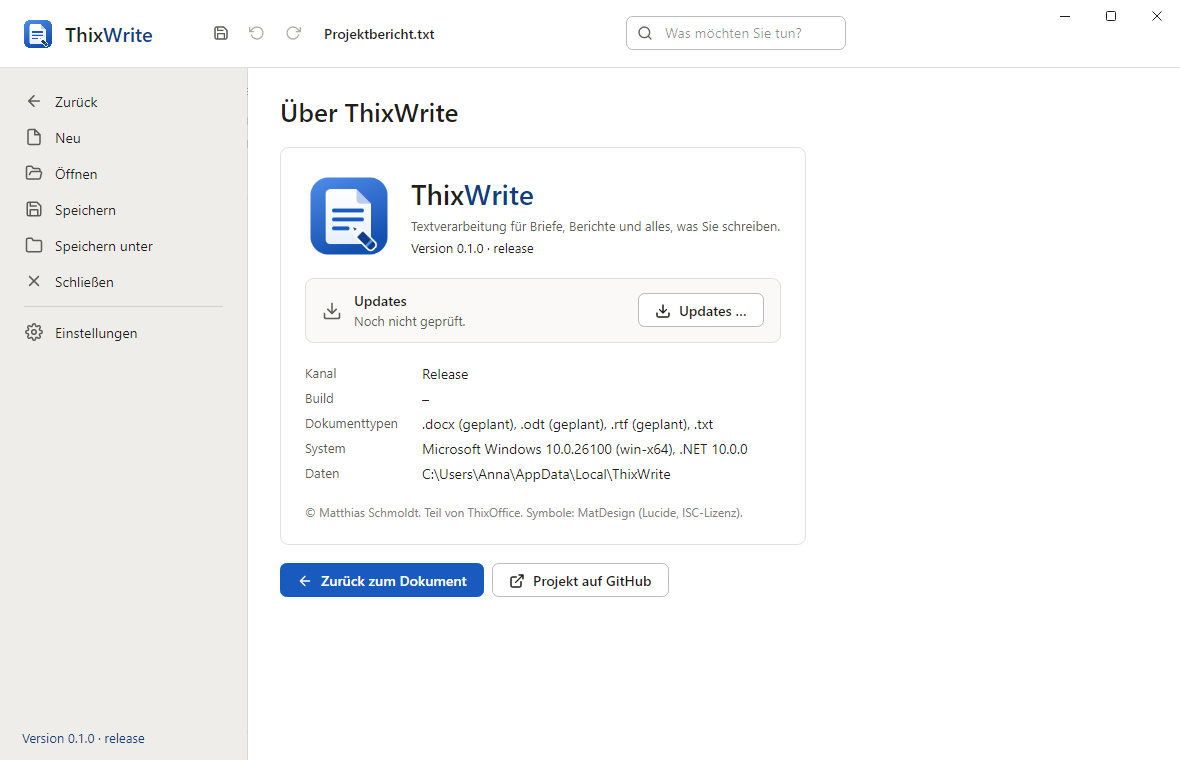
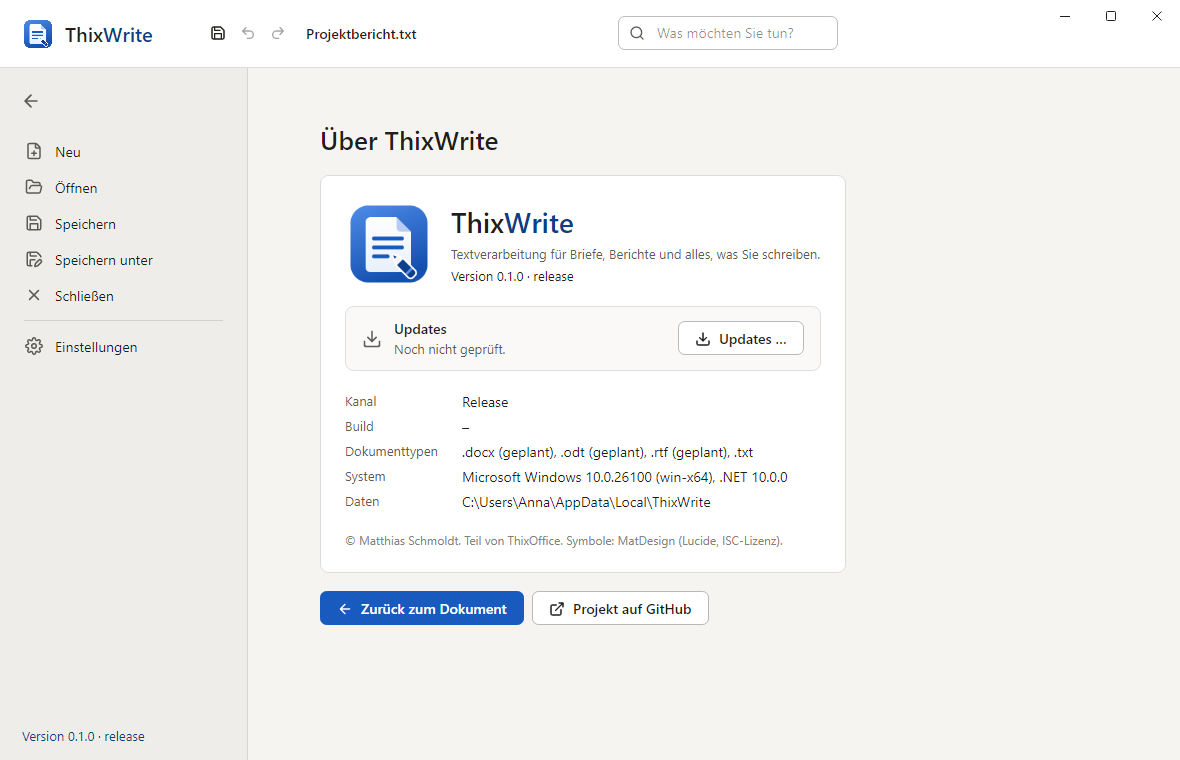
Docs: the ribbon binding, the keys, the last window on macOS; snapshots with the real ribbon

diff --git a/CLAUDE.md b/CLAUDE.md
@@ -14,11 +14,11 @@ like "Was möchten Sie tun?"); code, comments and identifiers English.
 
 **Phase 0 (done): the foundation.** The shared core and desktop, the ThixWrite skeleton with a PLACEHOLDER editor ("Editor folgt",
 a plain text box on `.txt`, so that new / open / save / recent / recovery / unsaved prompt / file activation are real), the
-logos of all three apps, CI. **Next:** MatRibbon, MatBackstage and MatStatusBar come as MatDesktop 0.3.0 from MatDesign (a
-colleague builds them) and drop into the slots below; then phase 1a, ThixWrite's native editor and docx. Do not build a ribbon
-of your own and do not grow the placeholders.
+logos of all three apps, CI, and MatDesktop 0.3.0's MatRibbon, MatBackstage, MatStatusBar and MatQuickAccess in the window.
+**Next:** phase 1a, ThixWrite's native editor and docx (it registers the commands `WriteCommandIds` names; the ribbon shows
+them in their places). Do not build ribbon controls of your own and do not grow the placeholder editor.
 
-Stack: **.NET 10** (`global.json` 10.0.100, latestMinor), C#, **Avalonia 11.3.22** with **MatDesktop 0.2.0** (a copy), xunit +
+Stack: **.NET 10** (`global.json` 10.0.100, latestMinor), C#, **Avalonia 11.3.22** with **MatDesktop 0.3.0** (a copy), xunit +
 Avalonia.Headless. Reference apps (sibling folders): ThixCalendar (structure, setup, OTA), ThixNote (document app: file types,
 update on exit), ThixClip (`--snapshot`), ThixFred (CI that publishes Windows even when macOS fails). Never use, reference or
 copy anything from MatOffice.
@@ -36,9 +36,10 @@ src/ThixOffice.Core        (no UI) shared by every app; every service is paramet
                            AppSettings, RecentDocument(+Item, Order), BusinessException(message, field)
   Documents/               OfficeDocument: the UI-free base of every document model (FilePath, FileType, Title, IsDirty, IsPristine,
                            IsRecovered, Undo/Redo, protected Read/Write(Stream), Changed)
-  Commands/                OfficeCommand (Id, Label, Icon, Shortcut "Ctrl+S", Description, Keywords, CanExecute, IsChecked,
-                           IsSearchable, ExecuteAsync), OfficeCommandRegistry (Add, Find, this[id], ExecuteAsync, Search, Invalidate,
-                           StateChanged), CommonCommandIds, RibbonLayout / RibbonTab / RibbonGroup / RibbonItem (+ RibbonItemSize)
+  Commands/                OfficeCommand (Id, Label, Icon, Shortcut "Ctrl+S", MacShortcut, CurrentShortcut, Description, Keywords,
+                           CanExecute, IsChecked, IsSearchable, ExecuteAsync), OfficeValueCommand : OfficeCommand (Kind Text|Number|
+                           Color|Choice, Value, Options, ApplyAsync(value): font, size, colour, style), OfficeCommandRegistry (Add,
+                           Find, this[id], ExecuteAsync, ApplyAsync, Search, Invalidate, StateChanged), CommonCommandIds
   Business/                SettingsService, RecentDocuments, DocumentFiles (atomic save, .bak, lock detection, recovery files),
                            DocumentService (Open, Save, SaveAs, TargetPath, recovery), AccessPolicy (LockConfiguration, DisableUpdates,
                            DisableCloud, DisableFileAssociations), InstallService (Windows self-installing exe), UninstallEntry (what
@@ -51,29 +52,32 @@ src/ThixOffice.Core        (no UI) shared by every app; every service is paramet
   Platform/Windows/        ShellLink (.lnk through generated COM)
   MatCloud/                COPY of the MatCloud contract (never edited here); cloud sign-in comes in a later phase
 src/ThixOffice.Desktop     shared Avalonia UI
-  MatDesktop/              COPY of MatDesign's desktop toolkit 0.2.0 (never edited here)
-  OfficeApplication        base Application of every app: Definition, CreateDocument, CreateEditor, AddCommands, Ribbon,
+  MatDesktop/              COPY of MatDesign's desktop toolkit 0.3.0 (never edited here)
+  OfficeApplication        base Application of every app: Definition, CreateDocument, CreateEditor, AddCommands, CreateRibbon(window),
                            FillSampleDocument; start-up (self test, Windows setup modes, single instance forwarding files, recovery,
                            crash reports, theme), NewDocumentWindow, ShowWindow, OpenFilesAsync/OpenFileAsync, HandleActivation,
-                           ExitApplication (installs a downloaded update), InstallUpdateNowAsync; FileDialogs (swappable)
+                           ExitApplication / OnExit (installs a downloaded update); the last window ends the app on Windows, not on
+                           macOS (LastWindowEndsApp; ⌘Q ends it, the Dock icon opens a new document); FileDialogs (swappable)
   OfficeProgram            Main helper: Run<TApp>(args, definition); BuildAvaloniaApp<TApp>()
   OfficeSelfTest, OfficeSnapshot, OfficeSetup (MatSetupWindow), UpdateCoordinator, UiWatchdog, Ui (helpers)
-  Shell/                   OfficeWindow (MatWindow per document: title bar with logo, word mark, quick access, document name + unsaved
-                           dot, CommandSearchBox; ribbon slot; message bar; editor; status bar slot; backstage over it all; keyboard;
-                           unsaved prompt; recovery timer), OfficeEditor (the app's part), ShellParts.cs (IOfficeRibbon,
-                           IOfficeBackstage + BackstageItem/BackstageContent, IOfficeStatusBar, OfficeShellParts factories),
-                           TemporaryCommandBar / TemporaryBackstage / TemporaryStatusBar (PLACEHOLDERS), CommandSearchBox,
+  Shell/                   OfficeWindow (MatWindow per document: title bar with logo, word mark, MatQuickAccess, document name +
+                           unsaved dot, CommandSearchBox; MatRibbon; message bar; editor; status bar; backstage over it all;
+                           keyboard; unsaved prompt; recovery timer), OfficeRibbonBinding + OfficeRibbonItems (see below),
+                           OfficeBackstage (MatBackstage with the pages by id; BackstageItem/BackstageContent), OfficeStatusBar
+                           (MatStatusBar: texts by id + zoom), OfficeEditor (the app's part; Zoom 10–500 %), CommandSearchBox,
                            IFileDialogs + SystemFileDialogs
   Pages/                   NewPage, OpenPage (Durchsuchen + Zuletzt verwendet: search, sort, pin, show, remove), SaveAsPage,
                            SettingsPage (Allgemein | Speichern | Updates | Erweitert), AboutPage
   Dialogs/                 QuestionDialog (+ SaveChangesDialog: Speichern, Abbrechen, gap, Nicht speichern), ProblemReportDialog
   Controls/                ActionBar, IconLabel, InfoBar, FormErrors (from the reference apps)
 src/ThixWrite.Core         ThixWriteApp.Definition; Documents/TextDocument (PHASE 0 ONLY: plain text, typing undo)
-src/ThixWrite              App (OfficeApplication), Program, Editor/PlaceholderEditor (PHASE 0 ONLY), Editor/WriteRibbon (layout +
-                           "Datum und Uhrzeit"), Assets (rendered by tools/render-icons.js)
+src/ThixWrite              App (OfficeApplication), Program, Editor/PlaceholderEditor (PHASE 0 ONLY), Editor/WriteRibbon
+                           (WriteCommandIds; the ribbon Start | Einfügen | Layout | Ansicht as a MatRibbonDefinition; "Datum und
+                           Uhrzeit"), Assets (rendered by tools/render-icons.js)
 tests/ThixOffice.Core.Tests     definition, version, settings, policies, recent list, atomic save, recovery, install / file types /
                                 autostart in an in-memory registry (+ the whole setup on Windows), updates, commands, MatCloud copy
-tests/ThixOffice.Desktop.Tests  headless with a small TestOfficeApp: shell, search, backstage, keyboard, unsaved prompt, slots,
+tests/ThixOffice.Desktop.Tests  headless with a small TestOfficeApp: shell, search, backstage, keyboard, unsaved prompt, ribbon
+                                binding, quick access, zoom,
                                 settings + lock, no literal colours, MatDesktop copy
 tests/ThixWrite.Tests           the real ThixWrite headless: new/type/save, open/replace/bring to front, recent list, prompts,
                                 recovery, second start, refusal of docx, commands, snapshots, no literal colours
@@ -84,21 +88,32 @@ scripts/package-macos.sh   <Name>.app per app (Info.plist with CFBundleGetInfoSt
 .github/workflows/         _desktop.yml (reusable: version → windows → macos → publish), thixwrite.yml (caller)
 ```
 
-## The slots for MatRibbon, MatBackstage, MatStatusBar (MatDesktop 0.3.0)
+## The ribbon, the backstage, the status bar
 
-Every document window takes its three parts from `OfficeShellParts.CreateRibbon / CreateBackstage / CreateStatusBar` (today the
-`Temporary*` placeholders). When the copy of MatDesktop 0.3.0 is in, write one small adapter per part and set the factory once
-(in `OfficeApplication.Initialize`); windows, pages, commands and tests stay.
-
-- `IOfficeRibbon`: `View`, `SelectedTabId`, `IsCollapsed`, `event FileTabInvoked` (opens the backstage), `event CollapsedChanged`,
-  `Bind(RibbonLayout layout, OfficeCommandRegistry commands)`. The layout is data (`OfficeApplication.Ribbon`); every item names a
-  command id; the ribbon runs `OfficeWindow.RunCommandAsync(source, command)` and follows `OfficeCommandRegistry.StateChanged`
-  for `IsEnabled` / `Checked`.
-- `IOfficeBackstage`: `View`, `IsOpen`, `CurrentPageId`, `CurrentPage`, `event OpenChanged`, `Configure(BackstageContent)`,
-  `Open(pageId)`, `Close()`. `BackstageContent(Items, Settings, About, Version, Channel)`; `BackstageItem(Id, Label, Icon,
-  CreatePage | Run, Shortcut)`. Page ids: `OfficeWindow.NewPageId` … `AboutPageId`; About opens from the version at the foot.
-- `IOfficeStatusBar`: `View`, `SetItem(id, text, StatusBarSide)`, `RemoveItem(id)`, `TextOf(id)`; the editor writes it
-  (`OfficeEditor.UpdateStatus`).
+- **Ribbon = MatDesktop's `MatRibbonDefinition`, bound to the commands by id.** `OfficeApplication.CreateRibbon(window)` returns a
+  NEW definition per window (its items carry the window's state). Item id = command id; build items with `OfficeRibbonItems`
+  (`Button(id, size)`, `Toggle(id, groupName, size)`, `ComboBox(id, width, isEditable, options)`, `Number(id, min, max, …)`,
+  `ColorPicker(id, palette)`, `Gallery(id, entries)`) or with Mat items whose id is a command id; do not give a bound item a
+  callback of its own. `OfficeRibbonBinding.Bind(definition, commands, ribbon, extraItems)` (the window does it): fills label /
+  icon / shortcut (`Ui.ShortcutText` of `CurrentShortcut`) / tooltip (`Description`) from the command; LEAVES OUT items whose
+  command the window does not have and that have no callback, then empty rows, stacks, groups and tabs (`MissingCommandIds`);
+  routes `MatRibbonDefinition.Invoked` to `OfficeWindow.RunCommandAsync` (value items – combo, number, colour, gallery – to
+  `OfficeValueCommand.ApplyAsync(value)`, numbers invariant); on `OfficeCommandRegistry.StateChanged` and after each use it pushes
+  `IsEnabled`, toggle `IsChecked` (= `Checked`) and the values into the items; `Reveal(id)` puts the keyboard into an item (the
+  search does that for a value command). Contextual tabs: the app calls `RibbonDefinition.ShowContext/HideContext`.
+  The definition stays in the app project (not in `<App>.Core`): `MatRibbonModel.cs` is System-only but lives in
+  ThixOffice.Desktop's MatDesktop copy and uses `MatText`; Core cannot reference it without a second copy of MatDesktop types.
+- **Quick access**: `MatQuickAccess` with three items bound like the ribbon's (Speichern, Rückgängig, Wiederholen; icons save /
+  undo / redo).
+- **Keys**: the window handles every command shortcut first (tunnel handler registered before the ribbon attaches; `Ctrl` = ⌘ on
+  macOS, `MacShortcut` where the Mac differs: Wiederholen ⇧⌘Z, Speichern unter ⇧⌘S, Menüband ⌥⌘R); the ribbon handles only
+  Alt / F10, the key tips and its arrow keys (not while the backstage is open). Undo/redo in a ribbon field stay the field's.
+- **Backstage**: `OfficeBackstage` (MatBackstage below the title bar): `Open(pageId)`, `Close()`, `IsOpen`, `CurrentPageId`,
+  `CurrentPage`, `OpenChanged`; pages are made anew each time they show. Page ids `OfficeWindow.NewPageId` … `AboutPageId`; Info
+  has no entry, the version at the foot opens it.
+- **Status bar**: `OfficeStatusBar` (MatStatusBar): `SetItem(id, text, side)`, `RemoveItem`, `TextOf`; its zoom and
+  `OfficeEditor.Zoom` (10–500 %, `OnZoomChanged`, `ZoomChanged`) follow each other; commands `view.zoomIn/zoomOut/zoom100`.
+- The ribbon's collapsed state is remembered (`AppSettings.IsRibbonCollapsed`, `MatRibbon.CollapsedChanged`).
 
 ## Build / run / test
 
@@ -114,10 +129,10 @@ Every document window takes its three parts from `OfficeShellParts.CreateRibbon 
   `ThixWrite.exe --self-test <report>` checks the published program (settings, documents, recovery, manifest, contract, DPAPI,
   COM, document icon, every window); CI runs it.
 - Icons: `cd tools && npm install && node render-icons.js` (`--preview <png>` draws every app at 16–256 px on light and dark – look).
-- **MatDesktop** (`src/ThixOffice.Desktop/MatDesktop/`) is a COPY from MatDesign (branch `feature/desktop-and-services`,
+- **MatDesktop** (`src/ThixOffice.Desktop/MatDesktop/`) is a COPY from MatDesign (0.3.0 from branch `feature/ribbon`,
   `src/MatDesktop`, version in `matdesktop.version`): never edit it here; copy again with `node tools/matdesktop-copy.js
   <path>/ThixOffice/src/ThixOffice.Desktop` in MatDesign. `RulesTests.The_copy_of_MatDesktop_is_unchanged` holds it. Icons the
-  sprite lacks go into MatDesign's sprite first (today: undo/redo are `restore` and `restore` mirrored).
+  sprite lacks go into MatDesign's sprite first.
 - **MatCloud contract** (`src/ThixOffice.Core/MatCloud/`) is a COPY: `node ../MatCloud/tools/contract-copy.js src/ThixOffice.Core`;
   `CopyTests` holds it. ThixCloud sign-in (app ids write/calc/show) comes in a later phase.
 

diff --git a/README.md b/README.md
@@ -16,8 +16,9 @@ Der Plan steht in [docs/PLAN.md](docs/PLAN.md).
 
 ## ThixWrite – Stand Phase 0
 
-Das Fenster mit Titelleiste (Logo, Schnellzugriff, Dokumentname, Befehlssuche), Menüband (vorläufig), Statusleiste und
-„Datei“ (Neu, Öffnen mit „Zuletzt verwendet“, Speichern unter, Einstellungen, Info) ist fertig. Der Textverarbeitungs-Editor
+Das Fenster mit Titelleiste (Logo, Schnellzugriff, Dokumentname, Befehlssuche), Menüband (Start, Einfügen, Ansicht – es
+füllt sich mit dem Editor; Strg+F1 reduziert es, Alt zeigt die Tastaturtipps), Statusleiste mit Zoom und „Datei“ (Neu,
+Öffnen mit „Zuletzt verwendet“, Speichern, Speichern unter, Schließen, Einstellungen, Info) ist fertig. Der Textverarbeitungs-Editor
 selbst entsteht in der nächsten Phase; bis dahin bearbeitet ThixWrite einfache Textdateien (.txt), damit Neu, Öffnen,
 Speichern, „Zuletzt verwendet“, die Wiederherstellung nach einem Absturz und die Frage „Änderungen speichern?“ schon echt
 funktionieren. Word-Dateien (.docx) öffnet ThixWrite erst, wenn es sie lesen kann – vorher werden sie weder angeboten noch

diff --git a/docs/PLAN.md b/docs/PLAN.md
@@ -106,6 +106,10 @@ kommt aus `ThixOffice.Core` und `ThixOffice.Desktop`.
    **Unten links die Versionsnummer → About.**
 4. **Arbeitsfläche** mit dem Editor, darunter die **Statusleiste** (Seite/Wörter bzw. Summe/Anzahl, Zoom).
 
+Das letzte Dokumentfenster schließen beendet die App unter Windows (wie Word); unter macOS bleibt sie wie jede Mac-App
+im Dock und in der Menüleiste, ein Klick aufs Dock-Symbol öffnet ein neues Dokument, ⌘Q beendet sie (entschieden 2026-11-18).
+Die Kurzbefehle folgen dem System: Strg+S/Z/Y/N/O/W, F12, Strg+F1 unter Windows; ⌘S/Z, ⇧⌘Z, ⌘N/O/W, ⇧⌘S, ⌥⌘R unter macOS.
+
 Die bisherigen Thix-Apps haben eine linke Navigation statt eines Menübands. Für Dokument-Apps
 ersetzt das Menüband die Navigation; Listen-Seiten (z. B. Drive-Dialog, Zuletzt) folgen weiter
 den UI-Richtlinien (Toolbar oben, Aktionen unten links, Löschen abgesetzt).
